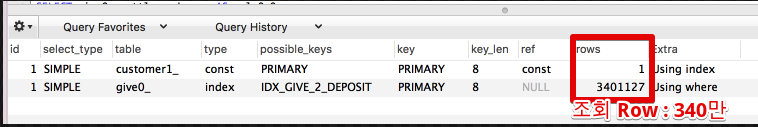
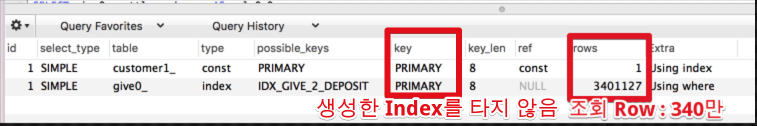
Mysql Range 인덱스 사례 추가 중

diff --git a/실사례_range인덱스.md b/실사례_range인덱스.md
@@ -1,0 +1,197 @@
+# Range 인덱스
+
+범위 조회시 인덱스를 어떻게 작성하는지 좋을지 실험해보았습니다.
+
+## 테스트 환경
+
+테스트할 쿼리의 테이블 관계도입니다.
+
+![관계도](./images/2_give_customer.png)
+
+Customer와 Give가 1:N 관계이지만, 조회의 중심은 Give인 상황입니다.  
+추가로 **Give는 수백만**, **Customer는 약 10만**의 데이터가 있다고 하겠습니다.  
+좀 더 명확한 비교를 위해 **둘 사이의 FK는 제거**한 상태이며, 순수하게 아래 제공하는 인덱스들만 등록하여 테스트하였습니다.  
+(Give    테이블은 temp_give라는 임시테이블로 복사하여 사용하였습니다.)  
+  
+아래는 조회시 사용되는 컬럼들의 Cardinality (유니크한 값의 개수)입니다.
+
+* settle_code : 2 
+* give_cycle_code : 5
+* customer_id : 약 10만 (Customer 테이블의 Row수)
+* deposit_due_date : 약 1,000 (2015년 ~ 현재까지)
+
+## 인덱스 비교 1 
+
+첫번째 비교 대상은 customer_id, give_cycle_code, deposit_due_date 컬럼을 사용한 조회 쿼리입니다.  
+실제 사용한 쿼리는 아래와 같습니다.
+
+```sql
+SELECT give0_.settle_code     AS col_0_0_, 
+       give0_.give_cycle_code AS col_1_0_, 
+       give0_.status          AS col_2_0_, 
+       give0_.start_date      AS col_3_0_, 
+       give0_.end_date        AS col_4_0_, 
+       give0_.deposit_date    AS col_5_0_, 
+       give0_.cycle_date      AS col_6_0_, 
+       give0_.fix_fee         AS col_7_0_, 
+       give0_.order_amount    AS col_8_0_, 
+       give0_.deduct_amount   AS col_9_0_, 
+       give0_.rate_fee        AS col_10_0_, 
+       give0_.vat             AS col_11_0_, 
+       give0_.give_amount     AS col_12_0_, 
+       give0_.bond_amount     AS col_13_0_, 
+       give0_.add_amount      AS col_14_0_ 
+FROM   temp_give give0_ 
+       INNER JOIN customer customer1_ 
+               ON give0_.customer_id = customer1_.id 
+WHERE  give0_.customer_id =43209 
+       AND ( give0_.deposit_due_date BETWEEN 20170401 AND 20170720 ) 
+       AND give0_.give_cycle_code = 'WEEK_MON' 
+ORDER  BY give0_.id DESC;
+
+```
+
+## 인덱스별 결과
+
+### 1. deposit_due_date, customer_id
+
+사용한 인덱스
+
+```sql
+create index IDX_GIVE_2_DEPOSIT on temp_give (deposit_due_date, customer_id);
+```
+
+실제 조회  
+  
+![](./images/2_mysql_1_1.png)
+
+실행 계획
+
+![](./images/2_mysql_1_2.png)
+
+### 2. customer_id, deposit_due_date
+
+사용한 인덱스
+
+```sql
+create index IDX_GIVE_2_CUSTOMER on temp_give (customer_id, deposit_due_date);
+```
+
+실제 조회
+  
+![](./images/2_mysql_2_1.png)
+
+실행 계획
+
+![](./images/2_mysql_2_2.png)
+
+
+
+
+#### 3. settle_code, deposit_due_date, customer_id
+
+**인덱스**
+
+```sql
+create index IDX_GIVE_3_DEPOSIT on temp_give (settle_code, deposit_due_date, customer_id);
+```
+
+**결과**  
+  
+**정산코드(settle_code)가 없는 조회**
+
+![](./images/2_mysql_3_1.png)
+
+![](./images/2_mysql_3_2.png)
+
+**정산코드(settle_code)가 있는 조회**
+
+![](./images/2_mysql_3_3.png)
+
+![](./images/2_mysql_3_4.png)
+
+#### 4. settle_code, customer_id, deposit_due_date
+
+
+**인덱스**
+
+```sql
+create index IDX_GIVE_3_CUSTOMER on temp_give (settle_code, customer_id, deposit_due_date);
+```
+
+**결과**  
+  
+**정산코드(settle_code)가 없는 조회**
+
+![](./images/2_mysql_4_1.png)
+
+![](./images/2_mysql_4_2.png)
+
+**정산코드(settle_code)가 있는 조회**
+
+![](./images/2_mysql_4_3.png)
+
+![](./images/2_mysql_4_4.png)
+
+## 인덱스 비교 2
+
+자 그럼 여기서 몇가지 의문이 생깁니다.  
+만약 
+
+* **customer_id가 조회 조건에서 빠지면** 어떻게 될까요? 
+* **deposit_due_date만 인덱스를 생성**하면 어떻게 될까요?
+
+
+#### 5. customer_id가 조회조건에 없을 경우 1
+
+
+## 인덱스 비교 2 
+
+두번째 비교 대상은 settle_code, customer_id, give_cycle_code, deposit_due_date 컬럼을 사용한 조회 쿼리입니다.  
+(1번째 실험의 조건에서 settle_code가 추가된 것입니다.)  
+
+실제 사용한 쿼리는 아래와 같습니다.
+
+```sql
+SELECT give0_.settle_code     AS col_0_0_, 
+       give0_.give_cycle_code AS col_1_0_, 
+       give0_.status          AS col_2_0_, 
+       give0_.start_date      AS col_3_0_, 
+       give0_.end_date        AS col_4_0_, 
+       give0_.deposit_date    AS col_5_0_, 
+       give0_.cycle_date      AS col_6_0_, 
+       give0_.fix_fee         AS col_7_0_, 
+       give0_.order_amount    AS col_8_0_, 
+       give0_.deduct_amount   AS col_9_0_, 
+       give0_.rate_fee        AS col_10_0_, 
+       give0_.vat             AS col_11_0_, 
+       give0_.give_amount     AS col_12_0_, 
+       give0_.bond_amount     AS col_13_0_, 
+       give0_.add_amount      AS col_14_0_ 
+FROM   temp_give give0_ 
+       INNER JOIN customer customer1_ 
+               ON give0_.customer_id = customer1_.id 
+WHERE  give0_.settle_code = 'BARO' 
+        AND give0_.customer_id =43209 
+       AND ( give0_.deposit_due_date BETWEEN 20170401 AND 20170720 ) 
+       AND give0_.give_cycle_code = 'WEEK_MON' 
+ORDER  BY give0_.id DESC;
+
+```
+
+### 1. 
+
+![](./images/2_mysql_1_3.png)
+
+![](./images/2_mysql_1_4.png)
+
+### 2.
+
+![](./images/2_mysql_2_3.png)
+
+![](./images/2_mysql_2_4.png)
+
+## 주의사항
+
+위 결과를 보고 인덱스를 확정짓고 관리하지 않으면 위험합니다.  
+왜냐하면 테이블의 Row와 컬럼의 분포도는 결국 **시간이 지나면서 변하기 때문**입니다.  

diff --git a/2주차.md b/2주차.md
@@ -162,163 +162,7 @@ where c1 = 'K'
 * B :
 * 선 : 
 
-## MySQL에선?
 
-테스트할 쿼리의 테이블 관계도입니다.
-
-![관계도](./images/2_give_customer.png)
-
-### 사용한 쿼리
-
-**정산코드(settle_code)가 없는 조회**
-
-```sql
-SELECT give0_.settle_code     AS col_0_0_, 
-       give0_.give_cycle_code AS col_1_0_, 
-       give0_.status          AS col_2_0_, 
-       give0_.start_date      AS col_3_0_, 
-       give0_.end_date        AS col_4_0_, 
-       give0_.deposit_date    AS col_5_0_, 
-       give0_.cycle_date      AS col_6_0_, 
-       give0_.fix_fee         AS col_7_0_, 
-       give0_.order_amount    AS col_8_0_, 
-       give0_.deduct_amount   AS col_9_0_, 
-       give0_.rate_fee        AS col_10_0_, 
-       give0_.vat             AS col_11_0_, 
-       give0_.give_amount     AS col_12_0_, 
-       give0_.bond_amount     AS col_13_0_, 
-       give0_.add_amount      AS col_14_0_ 
-FROM   temp_give give0_ 
-       INNER JOIN customer customer1_ 
-               ON give0_.customer_id = customer1_.id 
-WHERE  give0_.customer_id =43209 
-       AND ( give0_.deposit_due_date BETWEEN 20170401 AND 20170720 ) 
-       AND give0_.give_cycle_code = 'WEEK_MON' 
-ORDER  BY give0_.id DESC;
-
-```
-
-**정산코드(settle_code)가 있는 조회**
-
-```sql
-SELECT give0_.settle_code     AS col_0_0_, 
-       give0_.give_cycle_code AS col_1_0_, 
-       give0_.status          AS col_2_0_, 
-       give0_.start_date      AS col_3_0_, 
-       give0_.end_date        AS col_4_0_, 
-       give0_.deposit_date    AS col_5_0_, 
-       give0_.cycle_date      AS col_6_0_, 
-       give0_.fix_fee         AS col_7_0_, 
-       give0_.order_amount    AS col_8_0_, 
-       give0_.deduct_amount   AS col_9_0_, 
-       give0_.rate_fee        AS col_10_0_, 
-       give0_.vat             AS col_11_0_, 
-       give0_.give_amount     AS col_12_0_, 
-       give0_.bond_amount     AS col_13_0_, 
-       give0_.add_amount      AS col_14_0_ 
-FROM   temp_give give0_ 
-       INNER JOIN customer customer1_ 
-               ON give0_.customer_id = customer1_.id 
-WHERE  give0_.settle_code = 'BARO' 
-        AND give0_.customer_id =43209 
-       AND ( give0_.deposit_due_date BETWEEN 20170401 AND 20170720 ) 
-       AND give0_.give_cycle_code = 'WEEK_MON' 
-ORDER  BY give0_.id DESC;
-
-```
-
-인덱스는 총 4가지 방식으로 테스트 되었습니다.
-
-### 결과
-
-#### 1. deposit_due_date, customer_id
-
-**인덱스**
-
-```sql
-create index IDX_GIVE_2_DEPOSIT on temp_give (deposit_due_date, customer_id);
-```
-
-**결과**  
-  
-**정산코드(settle_code)가 없는 조회**
-
-![](./images/2_mysql_1_1.png)
-
-![](./images/2_mysql_1_2.png)
-
-**정산코드(settle_code)가 있는 조회**
-
-![](./images/2_mysql_1_3.png)
-
-![](./images/2_mysql_1_4.png)
-
-#### 2. customer_id, deposit_due_date 
-
-**인덱스**
-
-```sql
-create index IDX_GIVE_2_CUSTOMER on temp_give (customer_id, deposit_due_date);
-```
-
-**결과**  
-  
-**정산코드(settle_code)가 없는 조회**
-
-![](./images/2_mysql_2_1.png)
-
-![](./images/2_mysql_2_2.png)
-
-**정산코드(settle_code)가 있는 조회**
-
-![](./images/2_mysql_2_3.png)
-
-![](./images/2_mysql_2_4.png)
-
-#### 3. settle_code, deposit_due_date, customer_id
-
-**인덱스**
-
-```sql
-create index IDX_GIVE_3_DEPOSIT on temp_give (settle_code, deposit_due_date, customer_id);
-```
-
-**결과**  
-  
-**정산코드(settle_code)가 없는 조회**
-
-![](./images/2_mysql_3_1.png)
-
-![](./images/2_mysql_3_2.png)
-
-**정산코드(settle_code)가 있는 조회**
-
-![](./images/2_mysql_3_3.png)
-
-![](./images/2_mysql_3_4.png)
-
-#### 4. settle_code, customer_id, deposit_due_date
-
-
-**인덱스**
-
-```sql
-create index IDX_GIVE_3_CUSTOMER on temp_give (settle_code, customer_id, deposit_due_date);
-```
-
-**결과**  
-  
-**정산코드(settle_code)가 없는 조회**
-
-![](./images/2_mysql_4_1.png)
-
-![](./images/2_mysql_4_2.png)
-
-**정산코드(settle_code)가 있는 조회**
-
-![](./images/2_mysql_4_3.png)
-
-![](./images/2_mysql_4_4.png)
 ## 추천 도서
 
 * 오라클 성능 고도화 원리와 해법 (2권부터 읽기를 추천)
